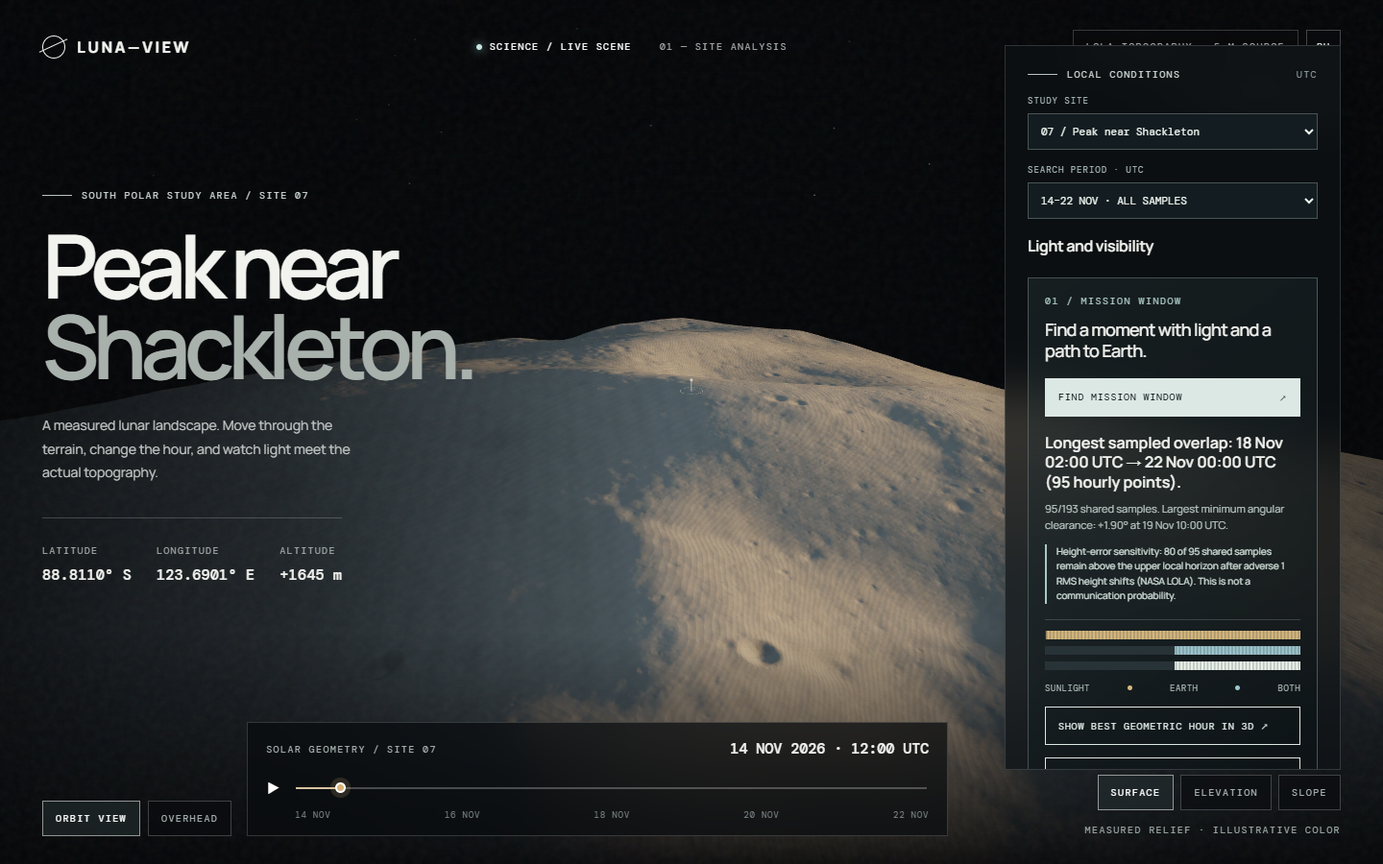
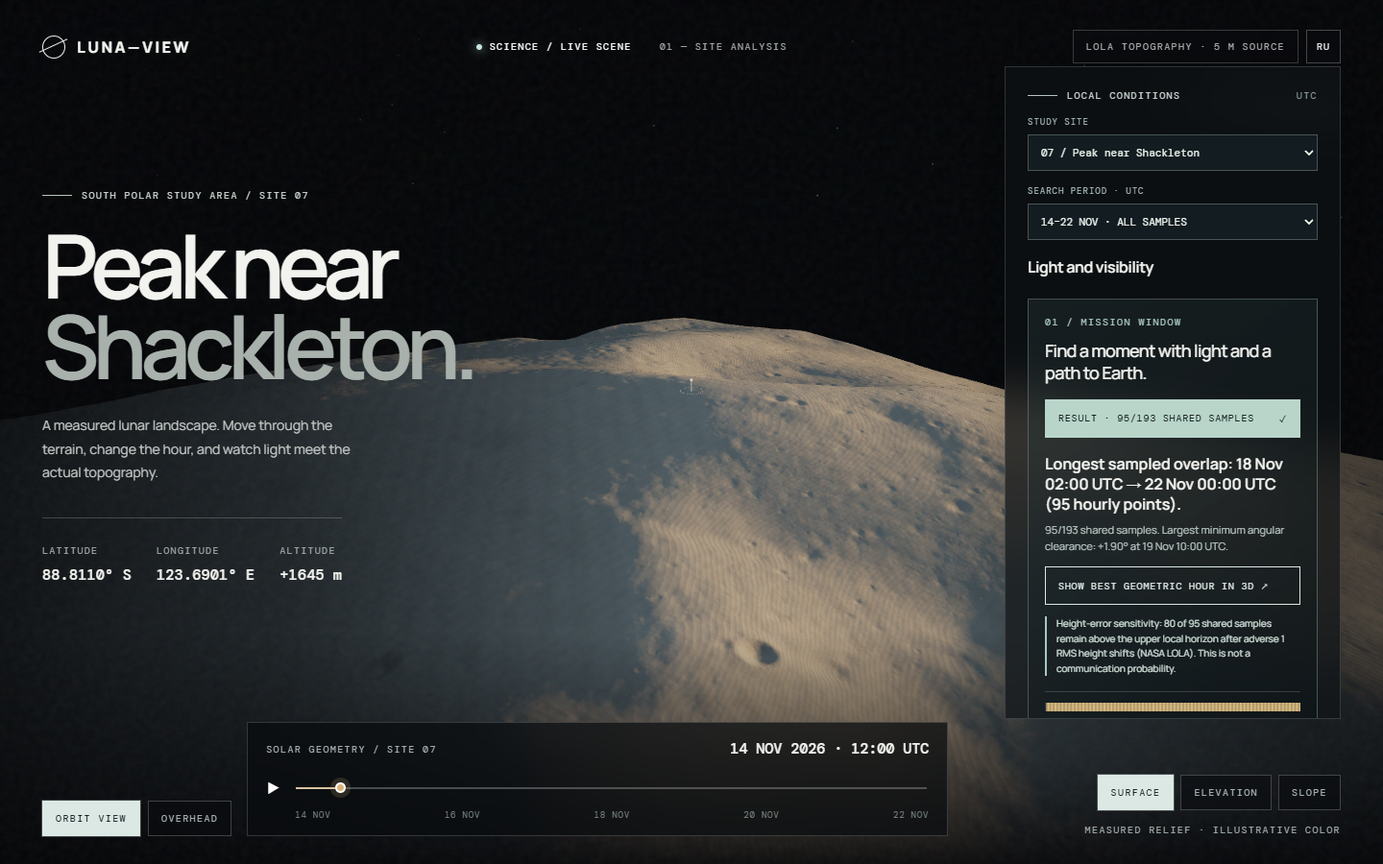
Fix responsive science controls and clarify terrain interactions

diff --git a/site.js b/site.js
@@ -11,7 +11,7 @@ const words = {
     factorEarth: 'Earth has a horizon too.', factorEarthBody: 'Direct communication depends on whether Earth clears the terrain around a specific site.',
     factorTerrain: 'The terrain must be real.', factorTerrainBody: 'A visualisation only earns trust when its geometry, resolution and uncertainty can be traced to a source.',
     terrainLabel: 'THE TERRAIN', terrainEyebrow: 'ONE PLACE · EIGHT DAYS', terrainBody: 'Search for a shared Sun and Earth window, then see the terrain that shapes the answer across 16 × 16 km of measured topography.', terrainOpen: 'OPEN FULL 3D ANALYSIS',
-    stageNote: 'INTERACTIVE 3D MODEL · DRAG TO ORBIT', stageOpen: 'OPEN FULL SCREEN',
+    stageNote: 'MEASURED 3D TERRAIN · OPEN TO EXPLORE', stageOpen: 'OPEN FULL SCREEN', previewOpen: 'EXPLORE THE MEASURED TERRAIN',
     compareLabel: 'THREE SITES, ONE CLOCK', compareTitle: 'The horizon<br><em>changes everything.</em>', compareBody: 'The same UTC samples, tested against three measured landscapes. Each strip shows local geometric visibility. Choose a site to see the ridge behind the answer.', comparePeriod: 'PERIOD · UTC',
     site07Name: '07 / PEAK NEAR SHACKLETON', site01Name: '01 / CONNECTING RIDGE', site04Name: '04 / SHACKLETON RIM', sharedHours: '/ 193 HOURLY SAMPLES', inspect3d: 'INSPECT IN 3D ↗', sunLabel: 'SUN', earthLabel: 'EARTH', bothLabel: 'BOTH',
     compareLimit: 'Hourly geometry · 8 km local horizon · not a power or communication forecast.',
@@ -30,7 +30,7 @@ const words = {
     factorEarth: 'У Земли тоже есть горизонт.', factorEarthBody: 'Прямая связь зависит от того, видна ли Земля над рельефом вокруг конкретной точки.',
     factorTerrain: 'Рельеф должен быть настоящим.', factorTerrainBody: 'Визуализация заслуживает доверия, когда известны источник геометрии, разрешение и ограничения данных.',
     terrainLabel: 'РЕЛЬЕФ', terrainEyebrow: 'ОДНА ТОЧКА · ВОСЕМЬ ДНЕЙ', terrainBody: 'Ищи общее окно света и видимости Земли, затем смотри на измеренном рельефе 16 × 16 км, что определило результат.', terrainOpen: 'ОТКРЫТЬ 3D-АНАЛИЗ',
-    stageNote: 'ИНТЕРАКТИВНАЯ 3D-МОДЕЛЬ · ВРАЩАЙ МЫШЬЮ', stageOpen: 'НА ВЕСЬ ЭКРАН',
+    stageNote: 'ИЗМЕРЕННЫЙ 3D-РЕЛЬЕФ · ОТКРОЙ ДЛЯ ИССЛЕДОВАНИЯ', stageOpen: 'НА ВЕСЬ ЭКРАН', previewOpen: 'ИССЛЕДОВАТЬ ИЗМЕРЕННЫЙ РЕЛЬЕФ',
     compareLabel: 'ТРИ УЧАСТКА · ОДНО ВРЕМЯ', compareTitle: 'Горизонт<br><em>меняет всё.</em>', compareBody: 'Одни и те же часы UTC на трёх измеренных рельефах. Полосы показывают геометрическую видимость. Выбери участок, чтобы увидеть гребень за результатом.', comparePeriod: 'ПЕРИОД · UTC',
     site07Name: '07 / ПИК У ШЕКЛТОНА', site01Name: '01 / СОЕДИНЯЮЩИЙ ГРЕБЕНЬ', site04Name: '04 / КРАЙ ШЕКЛТОНА', sharedHours: '/ 193 ЧАСОВЫХ ОТСЧЁТОВ', inspect3d: 'СМОТРЕТЬ В 3D ↗', sunLabel: 'СОЛНЦЕ', earthLabel: 'ЗЕМЛЯ', bothLabel: 'ОБА',
     compareLimit: 'Часовой шаг · горизонт до 8 км · не прогноз энергии или радиосвязи.',
@@ -45,6 +45,7 @@ const header = document.getElementById('site-header');
 const heroVideo = document.getElementById('hero-video');
 const scienceLink = document.getElementById('science-link');
 const scienceLinkBottom = document.getElementById('science-link-bottom');
+const scienceMobilePreview = document.getElementById('science-mobile-preview');
 const heroMissionLink = document.getElementById('hero-mission-link');
 const sciencePreview = document.getElementById('science-preview');
 const comparisonDaySelect = document.getElementById('comparison-day');
@@ -73,6 +74,7 @@ function setLanguage(lang) {
   const scienceUrl = `./science/${scienceParams.size ? `?${scienceParams}` : ''}`;
   scienceLink.href = scienceUrl;
   scienceLinkBottom.href = scienceUrl;
+  scienceMobilePreview.href = scienceUrl;
   heroMissionLink.href = `./science/?site=07&find=1${comparisonDay === 'all' ? '' : `&day=${comparisonDay}`}${lang === 'ru' ? '&lang=ru' : ''}`;
   for (const card of document.querySelectorAll('.site-card')) {
     card.href = `./science/?site=${card.dataset.site}&find=1${comparisonDay === 'all' ? '' : `&day=${comparisonDay}`}${lang === 'ru' ? '&lang=ru' : ''}`;
@@ -81,8 +83,9 @@ function setLanguage(lang) {
   renderComparison();
   if (sciencePreview.dataset.currentLang !== lang) {
     sciencePreview.dataset.currentLang = lang;
-    sciencePreview.dataset.pendingSrc = scienceUrl;
-    if (sciencePreview.dataset.loaded === 'true') sciencePreview.src = scienceUrl;
+    const embeddedUrl = `${scienceUrl}${scienceUrl.includes('?') ? '&' : '?'}embed=1`;
+    sciencePreview.dataset.pendingSrc = embeddedUrl;
+    if (sciencePreview.dataset.loaded === 'true') sciencePreview.src = embeddedUrl;
   }
   try { localStorage.setItem('luna-view-lang', lang); } catch { /* private mode */ }
 }
@@ -187,6 +190,14 @@ if (comparison && 'IntersectionObserver' in window) {
 
 const scienceStage = document.querySelector('.science-stage');
 let scienceVisible = false;
+let previewNear = false;
+const compactPreview = window.matchMedia('(max-width: 1100px)');
+function loadPreviewIfNeeded() {
+  if (!previewNear || compactPreview.matches || sciencePreview.dataset.loaded === 'true') return;
+  sciencePreview.dataset.loaded = 'true';
+  sciencePreview.src = sciencePreview.dataset.pendingSrc;
+}
+compactPreview.addEventListener('change', loadPreviewIfNeeded);
 const sendScienceVisibility = () => {
   if (sciencePreview.dataset.loaded === 'true') sciencePreview.contentWindow?.postMessage({ type: 'luna-visibility', active: scienceVisible }, location.origin);
 };
@@ -194,15 +205,15 @@ sciencePreview.addEventListener('load', sendScienceVisibility);
 if ('IntersectionObserver' in window) {
   const loadScene = new IntersectionObserver((entries, observer) => {
     if (entries[0].isIntersecting) {
-      sciencePreview.dataset.loaded = 'true';
-      sciencePreview.src = sciencePreview.dataset.pendingSrc;
+      previewNear = true;
+      loadPreviewIfNeeded();
       observer.disconnect();
     }
   }, { rootMargin: '800px 0px' });
   loadScene.observe(scienceStage);
   const sceneVisibility = new IntersectionObserver((entries) => { scienceVisible = entries[0].isIntersecting; sendScienceVisibility(); }, { threshold: .01 });
   sceneVisibility.observe(scienceStage);
-} else { scienceVisible = true; sciencePreview.dataset.loaded = 'true'; sciencePreview.src = sciencePreview.dataset.pendingSrc; }
+} else { scienceVisible = true; previewNear = true; loadPreviewIfNeeded(); }
 
 function updateHeader() { header.classList.toggle('scrolled', window.scrollY > 32); }
 window.addEventListener('scroll', updateHeader, { passive: true });

diff --git a/science/luna_view_3d_science_reference.js b/science/luna_view_3d_science_reference.js
@@ -2,6 +2,7 @@ import * as THREE from 'three';
 
 const $ = (id) => document.getElementById(id);
 const query = new URLSearchParams(location.search);
+if (query.get('embed') === '1') document.body.classList.add('embedded');
 const siteId = ['01', '04', '07'].includes(query.get('site')) ? query.get('site') : '04';
 const compareTarget = siteId === '04' ? '07' : '04';
 let locale = query.get('lang') === 'ru' ? 'ru' : 'en';
@@ -31,6 +32,7 @@ exportButton.className = 'mission-export';
 exportButton.type = 'button';
 exportButton.textContent = 'DOWNLOAD HOURLY EVIDENCE CSV ↓';
 $('mission-limit').after(exportButton);
+$('mission-detail').after($('show-why'));
 const copy = {
   en: {
     sunLit: 'SUN ABOVE LOCAL TERRAIN', sunBlocked: 'SUN BLOCKED BY LOCAL TERRAIN',
@@ -88,7 +90,7 @@ function translateStatic() {
 translateStatic();
 function openSite(nextSite, nextLocale = locale, autoFind = false) {
   const params = new URLSearchParams();
-  if (nextSite === '01' || nextSite === '07') params.set('site', nextSite);
+  params.set('site', nextSite);
   if (nextLocale === 'ru') params.set('lang', 'ru');
   if (selectedDay !== 'all') params.set('day', selectedDay);
   if (autoFind) params.set('find', '1');
@@ -106,6 +108,8 @@ $('day-choice').addEventListener('change', event => {
   const [start] = selectionBounds();
   state.time = start + 12;
   explanationActive = false;
+  $('show-why').classList.remove('active');
+  $('show-why').setAttribute('aria-pressed', 'false');
   detailActive = false;
   if (terrain) terrain.visible = true;
   if (closeTerrain) closeTerrain.visible = false;
@@ -150,6 +154,7 @@ function updatePanelToggle() {
 $('panel-toggle').addEventListener('click', () => { document.querySelector('.science').classList.toggle('collapsed'); updatePanelToggle(); });
 updatePanelToggle();
 const canvas = $('scene');
+for (const [id, active] of [['orbit', true], ['overhead', false], ['play', false], ['find-window', false], ['show-why', false]]) $(id).setAttribute('aria-pressed', String(active));
 const renderer = new THREE.WebGLRenderer({ canvas, antialias: true, powerPreference: 'high-performance' });
 const preferredPixelRatio = () => Math.min(window.devicePixelRatio || 1, window.innerWidth < 700 ? 1.25 : 1.75);
 const reduceMotion = window.matchMedia('(prefers-reduced-motion: reduce)').matches;
@@ -512,6 +517,9 @@ function findMissionWindow() {
   }
   $('mission-chart').replaceChildren(svg);
   $('mission-chart').setAttribute('aria-label', missionText[locale].chart(selectedRangeLabel()));
+  $('find-window').classList.add('evaluated');
+  $('find-window').setAttribute('aria-pressed', 'true');
+  $('find-window').innerHTML = `${locale === 'ru' ? 'РЕЗУЛЬТАТ' : 'RESULT'} · ${sharedCount}/${samples.length} ${locale === 'ru' ? 'ОБЩИХ ОТСЧЁТОВ' : 'SHARED SAMPLES'} <span>✓</span>`;
   svg.addEventListener('pointerdown', event => {
     const bounds = svg.getBoundingClientRect();
     state.time = rangeStart + clamp(Math.round((event.clientX - bounds.left) / bounds.width * (samples.length - 1)), 0, samples.length - 1);
@@ -523,6 +531,8 @@ function findMissionWindow() {
 
 function showWhy() {
   if (!data || !missionEvaluated) return;
+  $('show-why').classList.add('active');
+  $('show-why').setAttribute('aria-pressed', 'true');
   detailActive = false;
   terrain.visible = true;
   if (closeTerrain) closeTerrain.visible = false;
@@ -611,7 +621,11 @@ function setMode(mode) {
     closeTerrain.material.dispose();
     closeTerrain.material = terrainMaterial(mode);
   }
-  for (const [id, value] of [['photometric','surface'],['topographic','elevation'],['slope','slope']]) $(id).classList.toggle('active', mode === value);
+  for (const [id, value] of [['photometric','surface'],['topographic','elevation'],['slope','slope']]) {
+    const active = mode === value;
+    $(id).classList.toggle('active', active);
+    $(id).setAttribute('aria-pressed', String(active));
+  }
   $('legend').classList.toggle('visible', mode !== 'surface');
   $('legend').classList.toggle('slope', mode === 'slope');
   $('legend-min').textContent = mode === 'slope' ? '0°' : `${(data.height_range_m[0] / 1000).toFixed(2)} KM`;
@@ -621,9 +635,9 @@ function setMode(mode) {
 
 for (const [id, mode] of [['photometric','surface'],['topographic','elevation'],['slope','slope']]) $(id).addEventListener('click', () => setMode(mode));
 $('time').addEventListener('input', (event) => { state.time = Number(event.target.value); updateTime(); });
-$('play').addEventListener('click', () => { state.playing = !state.playing; $('play').textContent = state.playing ? 'Ⅱ' : '▶'; });
-$('overhead').addEventListener('click', () => { state.overhead = true; state.targetElevation = 1.45; state.targetRadius = 17000; $('overhead').classList.add('active'); $('orbit').classList.remove('active'); });
-$('orbit').addEventListener('click', () => { state.overhead = false; state.targetElevation = 0.35; state.targetRadius = 9600; $('orbit').classList.add('active'); $('overhead').classList.remove('active'); });
+$('play').addEventListener('click', () => { state.playing = !state.playing; $('play').textContent = state.playing ? 'Ⅱ' : '▶'; $('play').setAttribute('aria-pressed', String(state.playing)); $('play').setAttribute('aria-label', state.playing ? 'Pause timeline' : 'Play timeline'); });
+$('overhead').addEventListener('click', () => { state.overhead = true; state.targetElevation = 1.45; state.targetRadius = 17000; $('overhead').classList.add('active'); $('orbit').classList.remove('active'); $('overhead').setAttribute('aria-pressed','true'); $('orbit').setAttribute('aria-pressed','false'); });
+$('orbit').addEventListener('click', () => { state.overhead = false; state.targetElevation = 0.35; state.targetRadius = 9600; $('orbit').classList.add('active'); $('overhead').classList.remove('active'); $('orbit').setAttribute('aria-pressed','true'); $('overhead').setAttribute('aria-pressed','false'); });
 let pointer = null;
 canvas.addEventListener('pointerdown', event => { pointer = { x: event.clientX, y: event.clientY }; state.interacting = true; canvas.setPointerCapture(event.pointerId); $('hint').classList.add('hidden'); });
 canvas.addEventListener('pointermove', event => {
@@ -693,8 +707,6 @@ try {
   setTimeout(() => $('loading').remove(), 1000);
   if (query.get('find') === '1') {
     findMissionWindow();
-    // Browser scroll restoration can override the first scroll during navigation.
-    if (window.innerWidth < 700) setTimeout(() => $('mission-result').scrollIntoView({ behavior: reduceMotion ? 'instant' : 'smooth', block: 'center' }), 400);
   }
 } catch (error) {
   $('loading').textContent = `DATA LOAD FAILED · ${error.message}`;

diff --git a/science/index.html b/science/index.html
@@ -48,6 +48,41 @@
     .site-choice{display:block;margin:15px 0 11px;color:#aabbb9;font:9px 'DM Mono',monospace;letter-spacing:.11em}.site-choice span{display:block;margin-bottom:7px}.site-choice select{width:100%;border:1px solid rgba(215,232,227,.28);border-radius:0;padding:10px 9px;background:#131c20;color:#edf4ef;font:11px 'DM Mono',monospace;cursor:pointer}.site-choice select:focus-visible{outline:2px solid #dce8e4;outline-offset:2px}
     .mission-export{display:block;width:100%;border:0;border-top:1px solid rgba(255,255,255,.14);margin-top:12px;padding:11px 0 1px;background:transparent;color:#c8d8d1;text-align:left;font:9px 'DM Mono',monospace;letter-spacing:.11em}.mission-export:hover{color:#fff;text-decoration:underline}
     @media(max-width:1100px){.science{width:310px}}@media(max-width:700px){.science{width:100%;max-height:none}.science.collapsed .mission-box{display:block}.science.collapsed .row,.science.collapsed .panel-foot{display:none}.mission-box h2{font-size:16px}body.explaining .intro{opacity:0;pointer-events:none}.evidence-callout{display:none}}
+    /* Keep the evidence panel clear of the control dock on large screens. */
+    @media(min-width:1101px){.science{margin-top:0;max-height:calc(100svh - 220px)}}
+    /* On compact screens the entire analysis is one scrollable page. */
+    @media(max-width:1100px){
+      html,body{overflow-x:hidden;overflow-y:auto}
+      .hud{height:auto;min-height:100svh;gap:28px;padding:24px clamp(20px,4vw,42px) 34px}
+      .content{display:block;flex:initial;min-height:0;padding-top:clamp(115px,19svh,210px)}
+      .intro{max-width:650px;margin:0}
+      .science{width:min(100%,600px);max-height:none;overflow:visible;margin:42px 0 0}
+      .bottom{display:grid;grid-template-columns:auto minmax(0,1fr);align-items:end;gap:14px}
+      .bottom .timeline{max-width:none;grid-column:1 / -1;grid-row:1}
+      .scene-controls{display:flex;grid-column:1;grid-row:2}
+      .right-bottom{grid-column:2;grid-row:2;min-width:0}
+      .mode{flex-wrap:wrap}
+      .footer-label{font-size:9px}
+    }
+    @media(max-width:700px){
+      .hud{gap:24px;padding:20px 20px 32px}
+      .content{padding-top:clamp(80px,15svh,140px)}
+      .science{margin:30px 0 0}
+      .bottom{grid-template-columns:1fr;gap:14px}
+      .bottom .timeline,.scene-controls,.right-bottom{grid-column:1;grid-row:auto}
+      .right-bottom{margin:0;text-align:left}
+      .mode{justify-content:flex-start}
+      .legend{justify-content:flex-start}
+      .footer-label{text-align:left}
+      .scene-controls button,.mode button{min-height:40px;padding:10px 12px}
+      .date{white-space:normal}
+    }
+    .mode .active,.scene-controls .active{background:#dce8e4;color:#0b1517;border-color:#dce8e4;box-shadow:0 0 0 1px rgba(220,232,228,.25)}
+    .mission-primary.evaluated{background:#b9d5ca;border-color:#b9d5ca;color:#071211}
+    .mission-secondary.active{background:rgba(183,218,207,.22);border-color:#b9d5ca;color:#f4fffa}
+    .mode button:focus-visible,.scene-controls button:focus-visible,.mission-primary:focus-visible,.mission-secondary:focus-visible{outline:2px solid #f5d6a3;outline-offset:3px}
+    body.embedded .top,body.embedded .sources{display:none}
+    body.embedded .hud{padding-top:30px}
   </style>
 </head>
 <body>
@@ -63,5 +98,5 @@
     <footer class="bottom"><div class="scene-controls"><button id="orbit" class="active">ORBIT VIEW</button><button id="overhead">OVERHEAD</button></div><div class="timeline"><div class="timeline-top"><span class="timeline-label">SOLAR GEOMETRY / SITE 04</span><span class="date" id="date">14 NOV 2026 · 12:00 UTC</span></div><div class="range-row"><button class="play" id="play" aria-label="Play timeline">▶</button><input id="time" type="range" min="0" max="192" step="1" value="12" aria-label="UTC hour" /></div><div class="range-labels"><span>14 NOV</span><span>16 NOV</span><span>18 NOV</span><span>20 NOV</span><span>22 NOV</span></div></div><div class="right-bottom"><div class="mode"><button id="photometric" class="active">SURFACE</button><button id="topographic">ELEVATION</button><button id="slope">SLOPE</button></div><div class="legend" id="legend"><span id="legend-min">−2.85 KM</span><span class="legend-bar"></span><span id="legend-max">+1.80 KM</span></div><div class="footer-label" id="mode-caption">MEASURED RELIEF · ILLUSTRATIVE COLOR</div></div></footer>
   </main>
   <script type="importmap">{"imports":{"three":"./three.module.js"}}</script>
-  <script type="module" src="./luna_view_3d_science_reference.js?v=20261115b"></script>
+  <script type="module" src="./luna_view_3d_science_reference.js?v=20261115d"></script>
 </body></html>

diff --git a/index.html b/index.html
@@ -9,7 +9,7 @@
   <link rel="preconnect" href="https://fonts.googleapis.com" />
   <link rel="preconnect" href="https://fonts.gstatic.com" crossorigin />
   <link href="https://fonts.googleapis.com/css2?family=DM+Mono:wght@400;500&family=Manrope:wght@400;500;600;700;800&display=swap" rel="stylesheet" />
-  <link rel="stylesheet" href="./site.css?v=20261115b" />
+  <link rel="stylesheet" href="./site.css?v=20261115c" />
 </head>
 <body>
   <header class="site-header" id="site-header">
@@ -39,7 +39,7 @@
     </section>
 
     <section class="terrain-intro section-wrap" id="terrain" aria-labelledby="terrain-heading"><div class="section-index reveal"><span>02 / <span data-i18n="terrainLabel">THE TERRAIN</span></span><span>NASA LOLA × JPL HORIZONS</span></div><div class="terrain-heading reveal"><div><p class="eyebrow" data-i18n="terrainEyebrow">ONE PLACE · EIGHT DAYS</p><h2 id="terrain-heading">Shackleton<br><em>Rim.</em></h2></div><div class="terrain-aside"><p data-i18n="terrainBody">Move through 16 × 16 km of measured topography. Change the hour to see where the Sun and Earth stand against the local terrain.</p><a class="under-link" href="./science/" id="science-link"><span data-i18n="terrainOpen">OPEN FULL 3D ANALYSIS</span><span aria-hidden="true">↗</span></a></div></div></section>
-    <section class="science-stage" aria-label="Interactive lunar terrain preview"><div class="science-frame"><iframe id="science-preview" title="Interactive three-dimensional Shackleton Rim terrain preview" loading="lazy" src="about:blank" allow="fullscreen"></iframe></div><div class="stage-note"><span data-i18n="stageNote">INTERACTIVE 3D MODEL · DRAG TO ORBIT</span><a href="./science/" id="science-link-bottom"><span data-i18n="stageOpen">OPEN FULL SCREEN</span> ↗</a></div></section>
+    <section class="science-stage" aria-label="Lunar terrain preview"><div class="science-frame"><iframe id="science-preview" title="Interactive three-dimensional Shackleton Rim terrain preview" loading="lazy" src="about:blank" allow="fullscreen"></iframe><a class="science-mobile-preview" href="./science/" id="science-mobile-preview"><span class="preview-site">NASA LOLA / SITE 04</span><span class="preview-action"><strong data-i18n="previewOpen">EXPLORE THE MEASURED TERRAIN</strong><span aria-hidden="true">↗</span></span></a></div><div class="stage-note"><span data-i18n="stageNote">MEASURED 3D TERRAIN · OPEN TO EXPLORE</span><a href="./science/" id="science-link-bottom"><span data-i18n="stageOpen">OPEN FULL SCREEN</span> ↗</a></div></section>
 
     <section class="comparison section-wrap" id="compare" aria-labelledby="comparison-heading">
       <div class="section-index reveal"><span>03 / <span data-i18n="compareLabel">THREE SITES, ONE CLOCK</span></span><span>14—22 NOV 2026 UTC</span></div>
@@ -56,5 +56,5 @@
     <section class="method section-wrap" id="method" aria-labelledby="method-heading"><div class="section-index reveal"><span>04 / <span data-i18n="methodLabel">METHOD & LIMITS</span></span><span data-i18n="sourceNote">SOURCES ARE PART OF THE INTERFACE</span></div><div class="method-grid"><h2 id="method-heading" class="reveal" data-i18n="methodTitle">Wonder needs<br>ground truth.</h2><div class="method-copy reveal"><p data-i18n="methodBody">The 3D scenes use NASA LOLA elevation models for Sites 01, 04 and 07; the preview shows Site04. Sun and Earth positions come from JPL Horizons for the selected point and UTC hour. The screen computes a local terrain horizon within 8 km.</p><p data-i18n="methodLimit">The 5 m source grid contains approximately 90% interpolated pixels. The wide 3D mesh samples it at 41.7 m; an optional 2 km detail uses the source grid. Surface tone and cinematic fill light help reveal shape. The hero film is generated imagery, not a map of this site.</p><div class="source-links"><a href="https://pgda.gsfc.nasa.gov/products/78" target="_blank" rel="noreferrer">NASA PGDA / LOLA ↗</a><a href="https://ssd.jpl.nasa.gov/horizons/" target="_blank" rel="noreferrer">JPL HORIZONS ↗</a><a href="https://www.spaceappschallenge.org/2026/challenges/lunar-landing-site-navigator/" target="_blank" rel="noreferrer">SPACE APPS CHALLENGE ↗</a></div></div></div></section>
   </main>
   <footer class="site-footer"><a href="#top" class="wordmark"><span class="orbit-mark" aria-hidden="true"></span>LUNA—VIEW</a><p data-i18n="footer">A working visual study by ZXC for NASA Space Apps Challenge 2026.</p><span>© ZXC 2026</span></footer>
-  <script src="./site.js?v=20261115b" defer></script>
+  <script src="./site.js?v=20261115c" defer></script>
 </body></html>

diff --git a/site.css b/site.css
@@ -16,3 +16,15 @@
 @media(max-width:700px){.hero-video{object-position:82% 50%}}
 .comparison-period{display:flex;align-items:center;justify-content:flex-end;gap:18px;margin:-29px 0 23px;color:#aebdba;font:500 10px 'DM Mono',Consolas,monospace;letter-spacing:.1em}.comparison-period select{min-width:220px;max-width:100%;padding:11px 35px 11px 13px;border:1px solid #536362;background:#11191b;color:#e5eee8;font:500 10px 'DM Mono',Consolas,monospace;letter-spacing:.07em;cursor:pointer}.comparison-period select:focus-visible{outline:2px solid #dce8e4;outline-offset:3px}
 @media(max-width:700px){.comparison-period{justify-content:space-between;margin:-18px 0 19px;gap:10px}.comparison-period select{min-width:0;width:65%}}
+.science-mobile-preview{display:none}
+@media(max-width:1100px){
+  .science-frame{height:clamp(420px,58vw,620px);min-height:0}
+  .science-frame iframe{display:none}
+  .science-mobile-preview{display:flex;position:relative;width:100%;height:100%;padding:25px;flex-direction:column;justify-content:space-between;background:linear-gradient(0deg,rgba(3,6,8,.9),transparent 45%,rgba(3,6,8,.24)),url('./docs/screenshots/terrain-preview.png') center 54%/cover no-repeat;color:#e5efea}
+  .preview-site{font:500 10px 'DM Mono',Consolas,monospace;letter-spacing:.14em}
+  .preview-action{display:flex;align-items:center;justify-content:space-between;gap:18px;border-top:1px solid rgba(235,245,240,.65);padding-top:18px;font:500 11px 'DM Mono',Consolas,monospace;letter-spacing:.1em}
+  .preview-action strong{font:inherit}
+  .preview-action>span{font-size:22px}
+  .science-mobile-preview:hover .preview-action{color:#f7d69f}
+}
+@media(max-width:700px){.science-frame{height:430px}.science-mobile-preview{padding:19px}.stage-note{align-items:flex-start}.stage-note span{max-width:175px}}

diff --git a/README.md b/README.md
@@ -30,6 +30,8 @@ python -m http.server 8000
 
 Open `http://localhost:8000/`. The main action opens `http://localhost:8000/science/?site=07&find=1`; the selector also offers Sites 01 and 04. A local HTTP server is required because the terrain and ephemeris are fetched as separate files. No build step or API token is needed to view the included study.
 
+For the browser interaction check, install Node dependencies with `npm ci`, then run `npm run test:ui` with Google Chrome installed. The check opens the actual 3D scene at phone, tablet and desktop widths, clicks the terrain modes, changes day/site/language, and checks that the evidence panel clears the controls. It also verifies the landing preview at phone and desktop widths.
+
 ## What works now
 
 - Cinematic landing page with the **Earth over a lunar rim** video, native scrolling, responsive layouts, reduced-motion behavior, and EN/RU content. The main action opens Site07's mission-window analysis. A 1080p loop serves large screens; a 720p, 6.1 MB version serves phones. A three-site comparison strip reads the site data files on demand, calculates the 95/42/0 shared hourly samples, and shows synchronized Sun/Earth/both timelines. Visitors can filter the three cards to any bundled UTC day; each card opens its own 3D explanation with that date retained in the URL.
